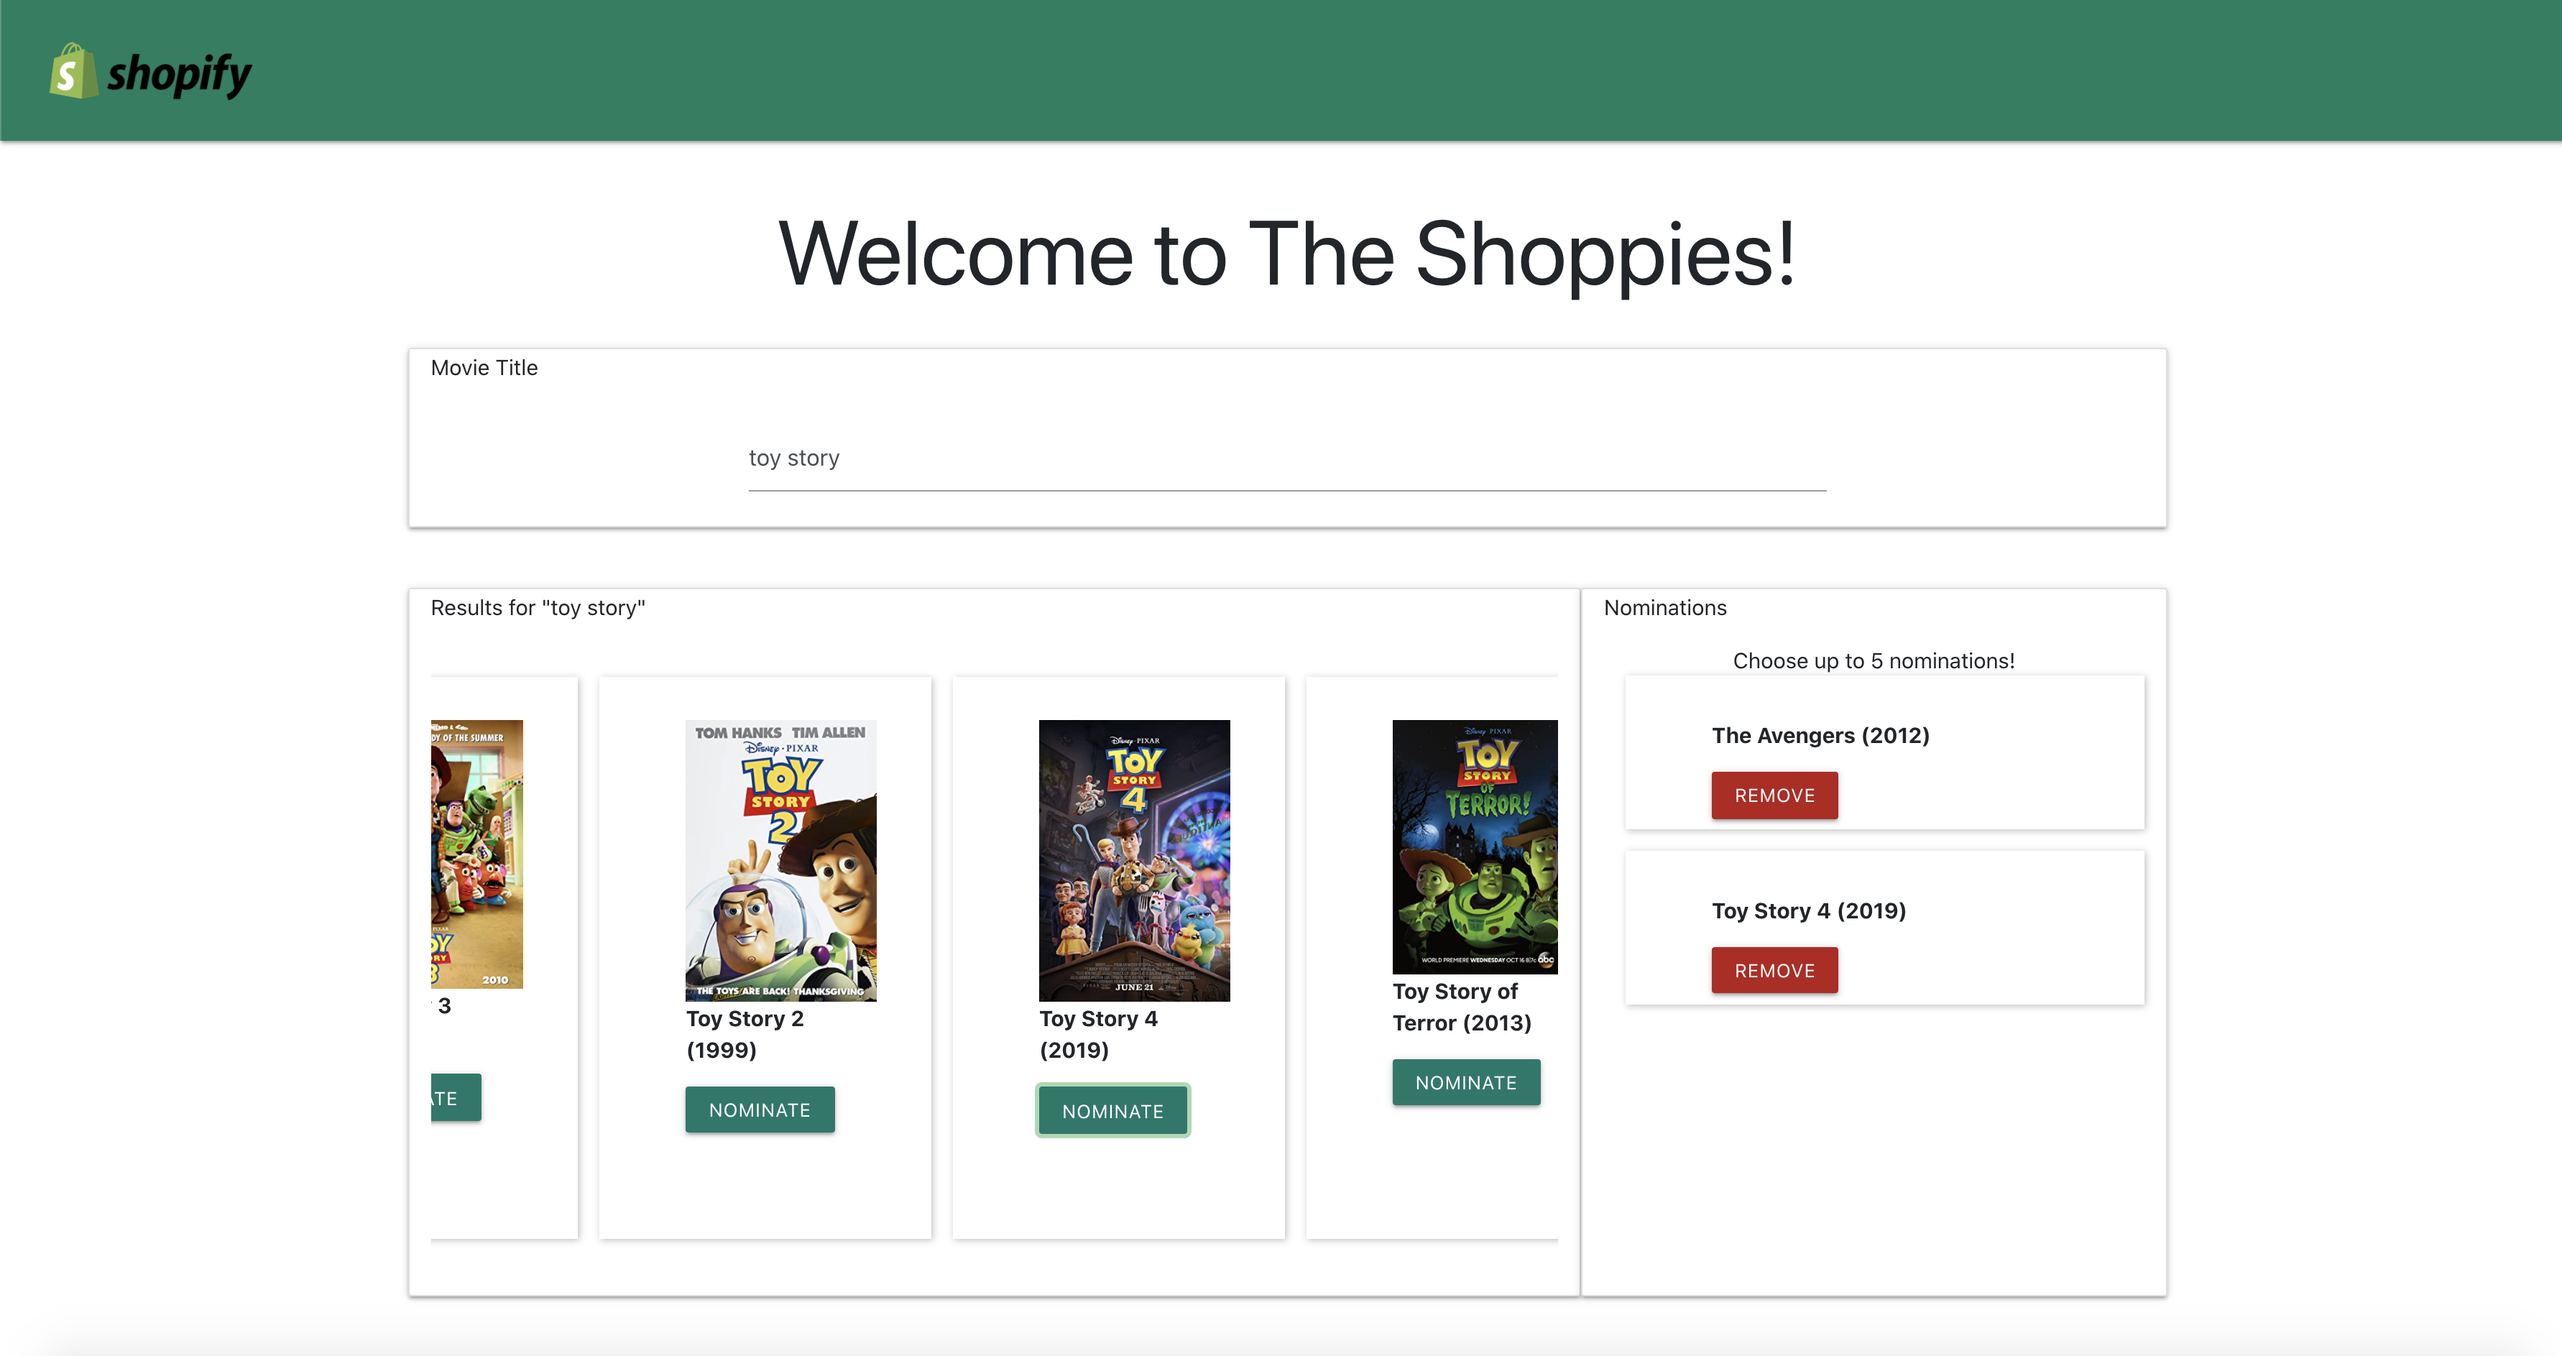
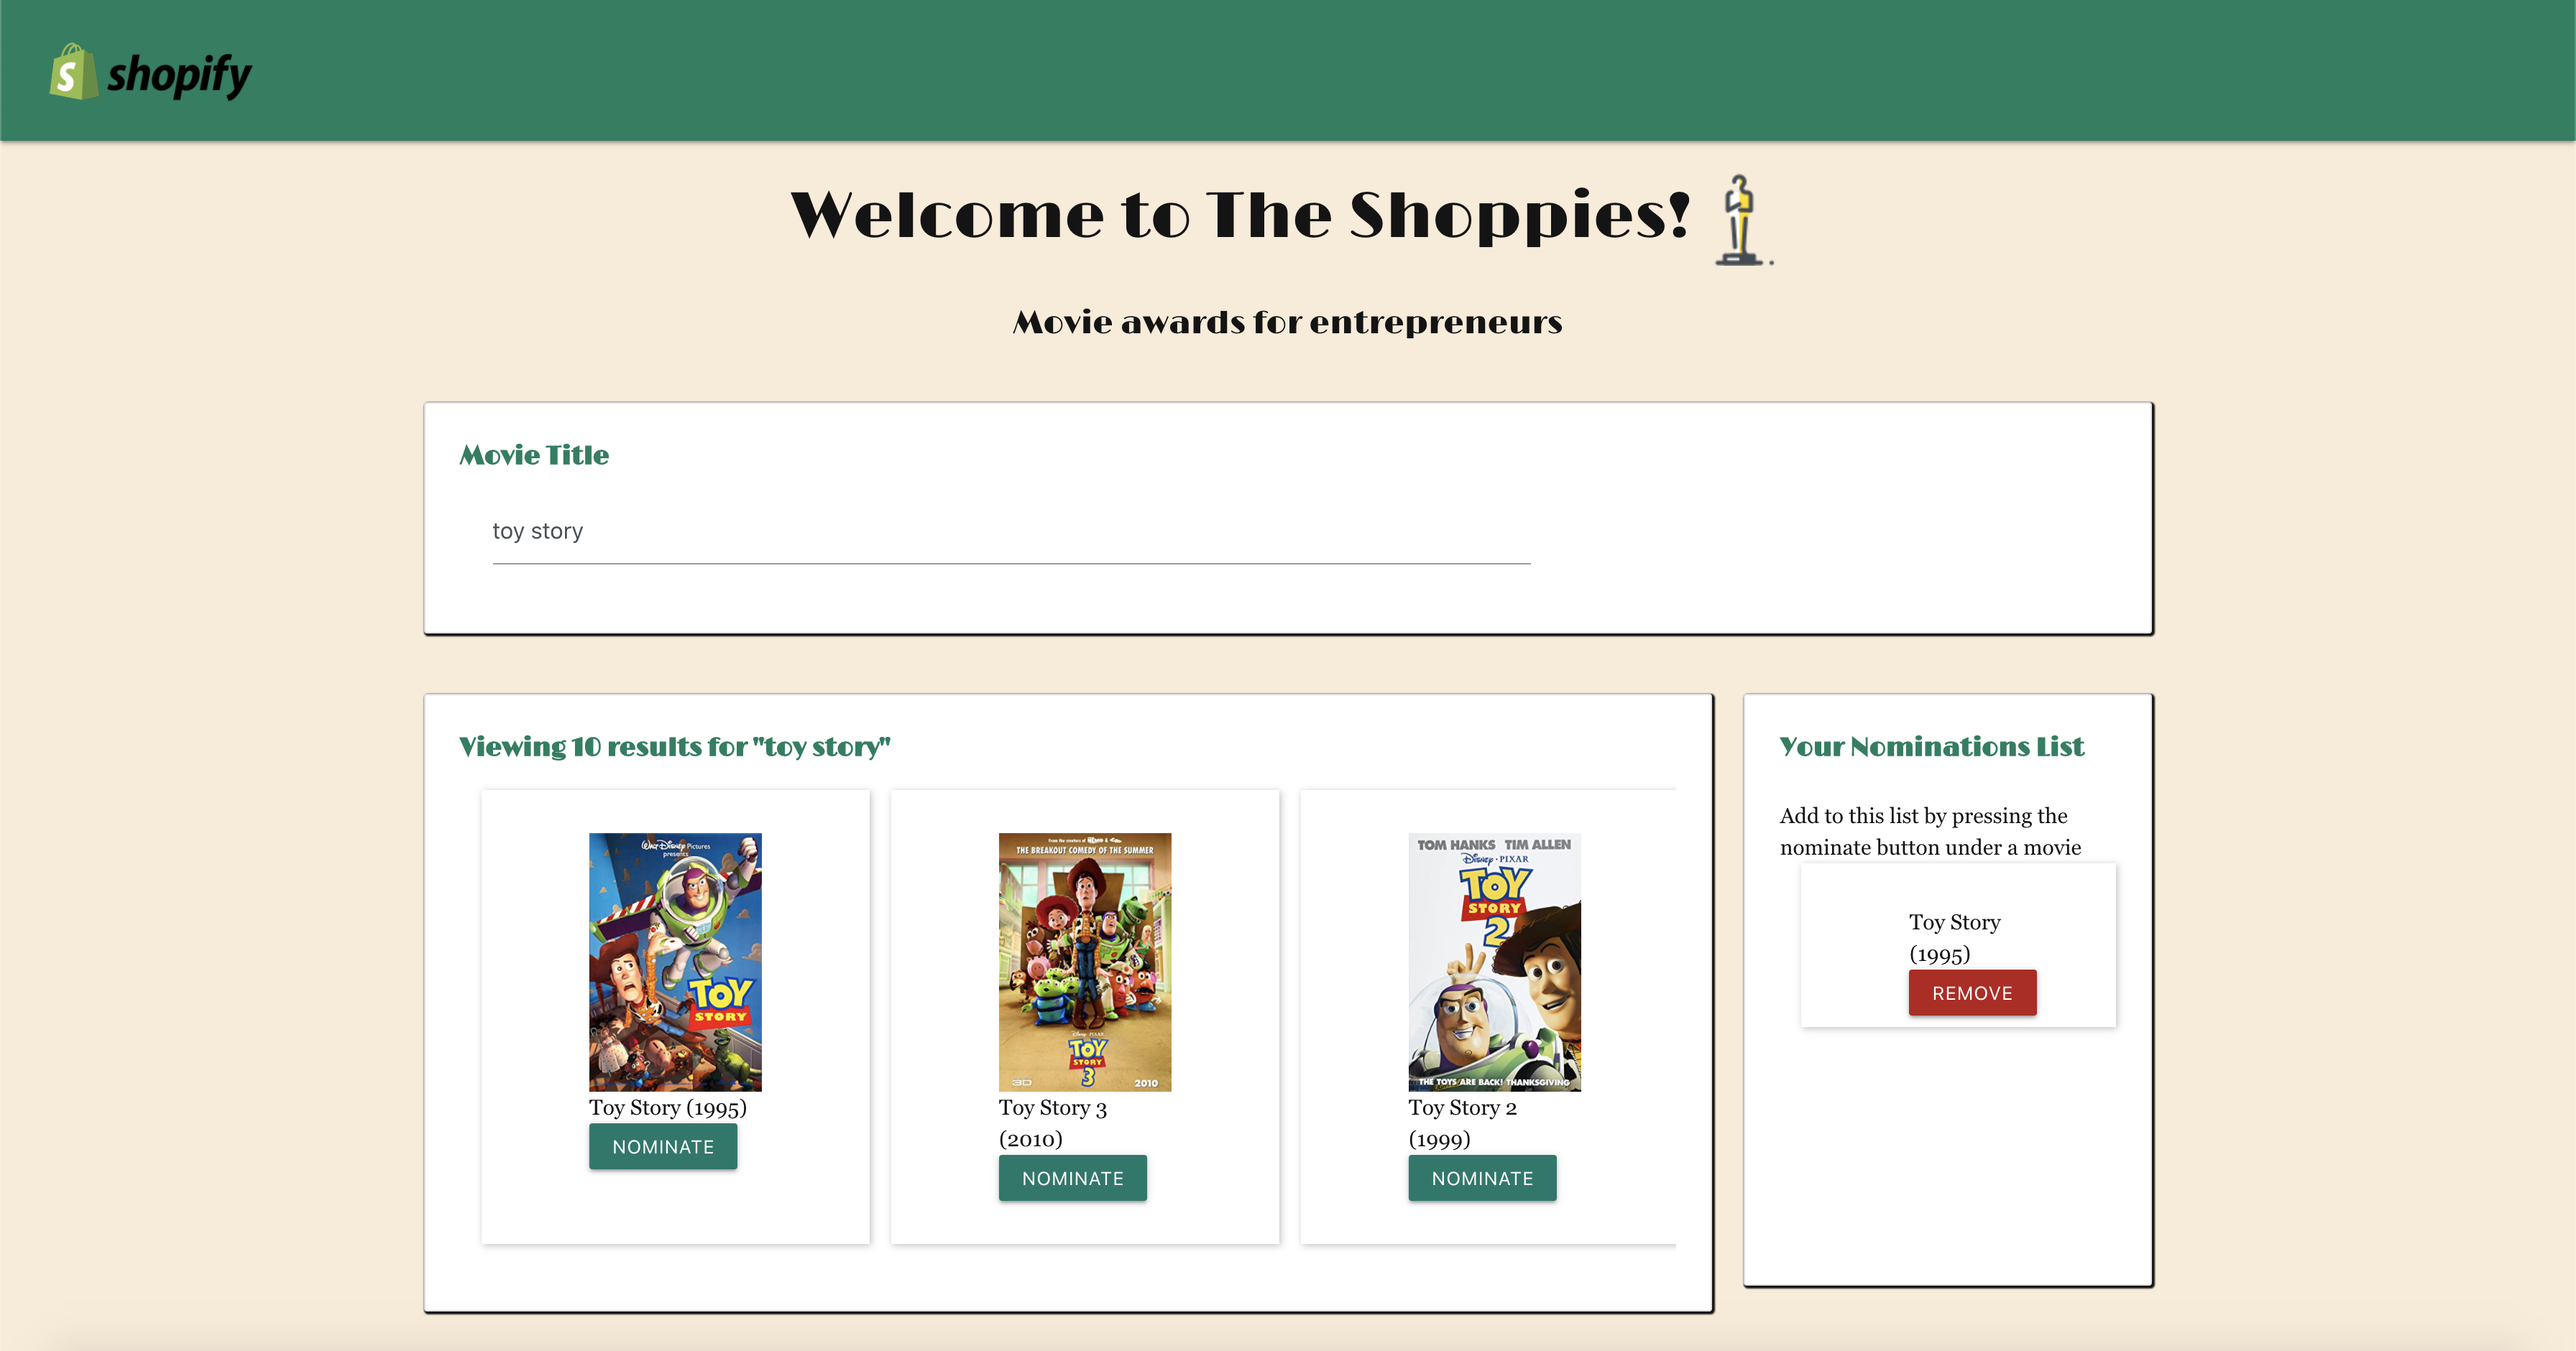
new fonts downloaded

diff --git a/src/App.css b/src/App.css
@@ -76,8 +76,8 @@ body {
   width: 8rem;
 }
 
-.form {
-	align-content: center;
+.form-control {
+  align-content: center;
   margin: 0 auto; 
   padding: 10px 0;
 }
